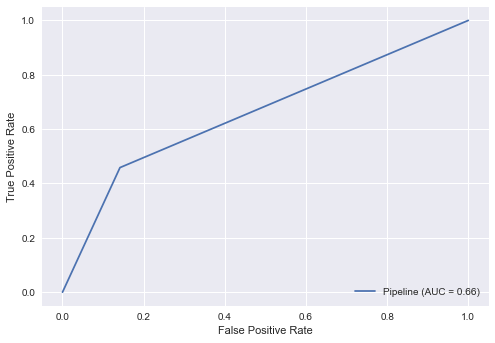
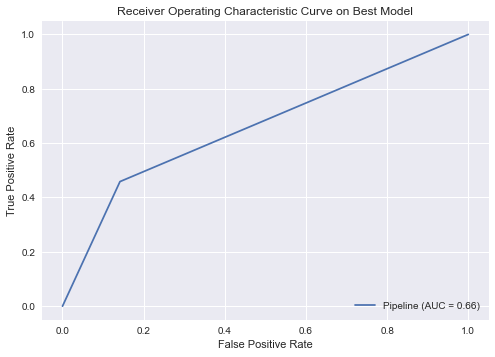
Feature selection plot added.

diff --git a/src/build_model.py b/src/build_model.py
@@ -186,6 +186,7 @@ def run_modelling(training_set: pd.DataFrame, visuals_path: str) -> None:
     main_pipe.fit(X_train, y_train)
 
     feature_select = main_pipe.named_steps["feature_select"]
+    feat_list = get_column_names_from_ColumnTransformer(preprocessor)
 
     # Summary Scores
     cv_f1_score = cross_val_score(main_pipe, X_train, y_train, scoring=scoring, cv=cv)
@@ -194,16 +195,19 @@ def run_modelling(training_set: pd.DataFrame, visuals_path: str) -> None:
     # Build out plots to save
 
     # Classification performance
-    auc_roc_plot = plot_roc_curve(main_pipe, X_train, y_train)
-    auc_roc_plot.figure_.savefig(
-        f"{visuals_path}/roc_auc_curve.png", bbox_inches="tight"
-    )
+    fig, ax = plt.subplots()
+    plot_roc_curve(main_pipe, X_train, y_train, ax=ax)
+    ax.set_title("Receiver Operating Characteristic Curve on Best Model")
+    fig.savefig(f"{visuals_path}/roc_auc_curve.png", bbox_inches="tight")
 
     # Feature selection steps
-    feat_list = get_column_names_from_ColumnTransformer(preprocessor)
     grid_scores = feature_select.grid_scores_
     fig, ax = plt.subplots()
-    ax.plot(feat_list, grid_scores)
+    ax.plot(np.arange(1, len(grid_scores) + 1), grid_scores)
+    ax.set_xlabel("Features In Model")
+    ax.set_ylabel("F1 Score")
+    ax.xaxis.set_tick_params(rotation=45)
+    ax.set_title("F1 Score with Recursive Feature Selection Process")
     fig.savefig(f"{visuals_path}/feature_selection.png", bbox_inches="tight")
 
     return main_pipe
